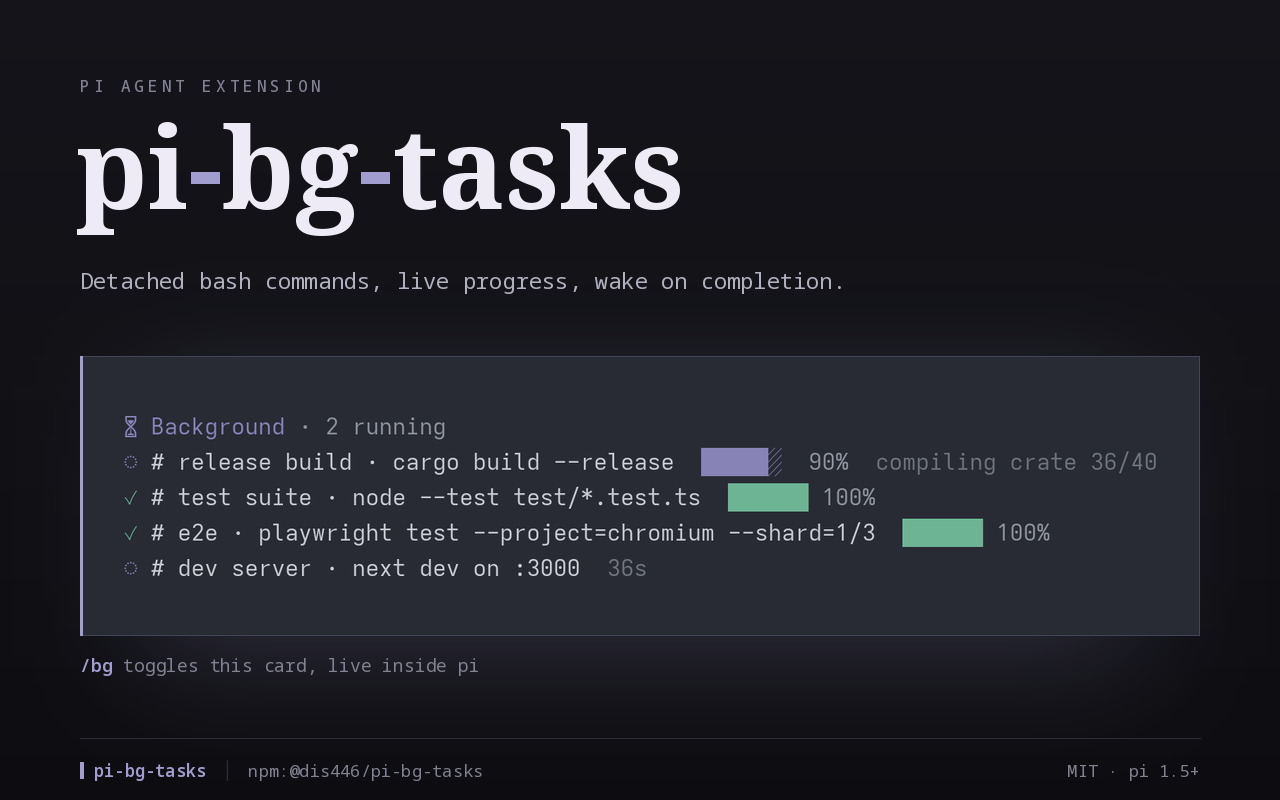
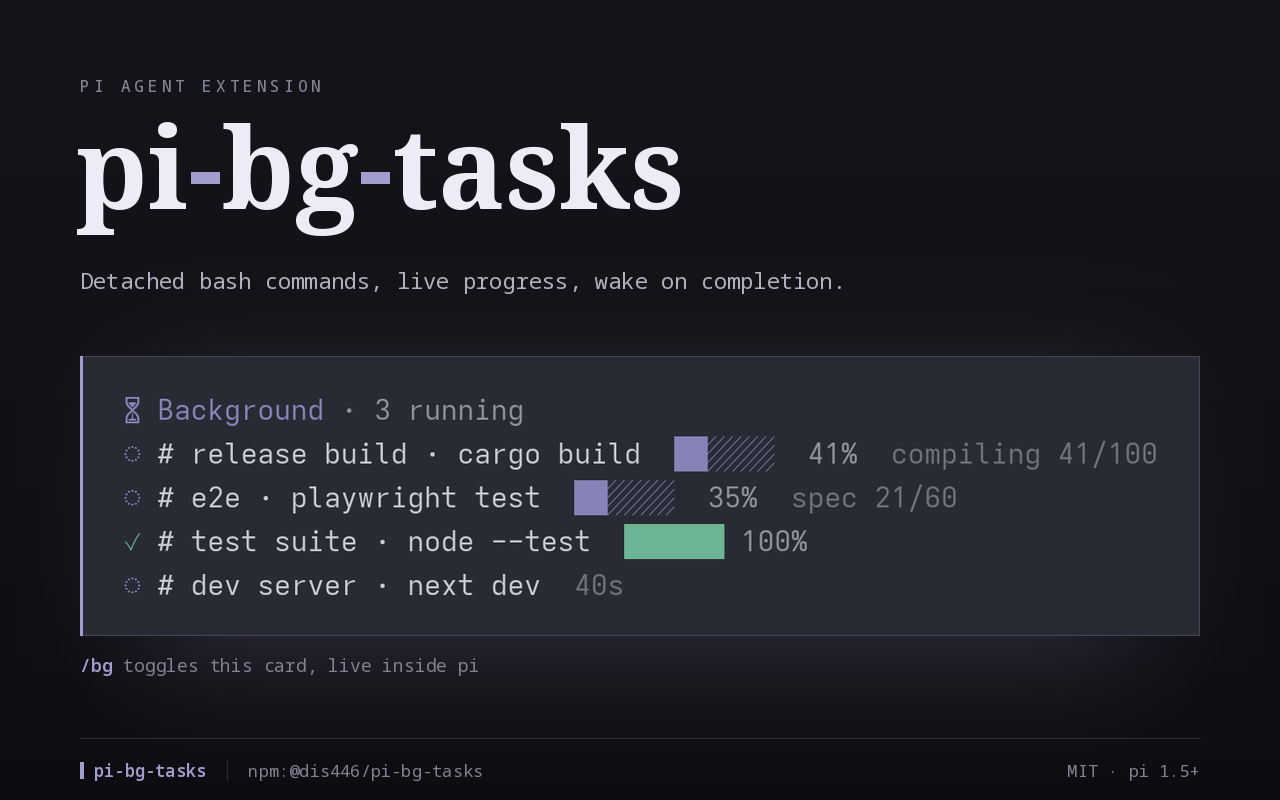
Replace the demo clip with the block-bar take
docs/card-demo.mp4 is 12.4 s of the new recording, retimed to constant 30 fps,
1248x212, H.264 yuv420p, no audio, faststart, 59 KB: three bars advancing, the
running count dropping 4 to 3, and the test-suite row turning green at 100%.

The cover snapshot now uses the same rows, labels and values as the clip, so the
still and the video tell one story.

Changed region(s): [[0.0938, 0.5, 0.9062, 0.75]]

diff --git a/docs/make-card.py b/docs/make-card.py
@@ -34,18 +34,18 @@ FG = {
     "warning": (214, 178, 122),
 }
 
-# A real moment from the demo run: two finished, one at 90 %, one elapsed.
+# A real moment from the demo clip (t≈32 s): two bars mid-flight, one finished.
 ROWS = [
-    {"id": "753xo9k8", "label": "# release build · cargo build --release", "state": "running",
-     "percent": 90, "message": "compiling crate 36/40", "startedAt": 0, "updatedAt": 4000},
-    {"id": "74aypjol", "label": "# test suite · node --test test/*.test.ts", "state": "completed",
-     "percent": 100, "startedAt": 0, "finishedAt": 31000, "updatedAt": 3000},
-    {"id": "74azauqn", "label": "# e2e · playwright test --project=chromium --shard=1/3", "state": "completed",
-     "percent": 100, "startedAt": 0, "finishedAt": 30000, "updatedAt": 2000},
-    {"id": "74az2dk5", "label": "# dev server · next dev on :3000", "state": "running",
+    {"id": "8lvvkabw", "label": "# release build · cargo build", "state": "running",
+     "percent": 41, "message": "compiling 41/100", "startedAt": 0, "updatedAt": 4000},
+    {"id": "8lvw1xri", "label": "# e2e · playwright test", "state": "running",
+     "percent": 35, "message": "spec 21/60", "startedAt": 0, "updatedAt": 3000},
+    {"id": "8lvvuxno", "label": "# test suite · node --test", "state": "completed",
+     "percent": 100, "startedAt": 0, "finishedAt": 30_000, "updatedAt": 2000},
+    {"id": "8lvw9y1c", "label": "# dev server · next dev", "state": "running",
      "startedAt": 0, "updatedAt": 1000},
 ]
-NOW = 36_000  # elapsed clock for the dev server row
+NOW = 40_000  # elapsed clock for the dev server row
 
 
 def render_lines() -> list[str]:
